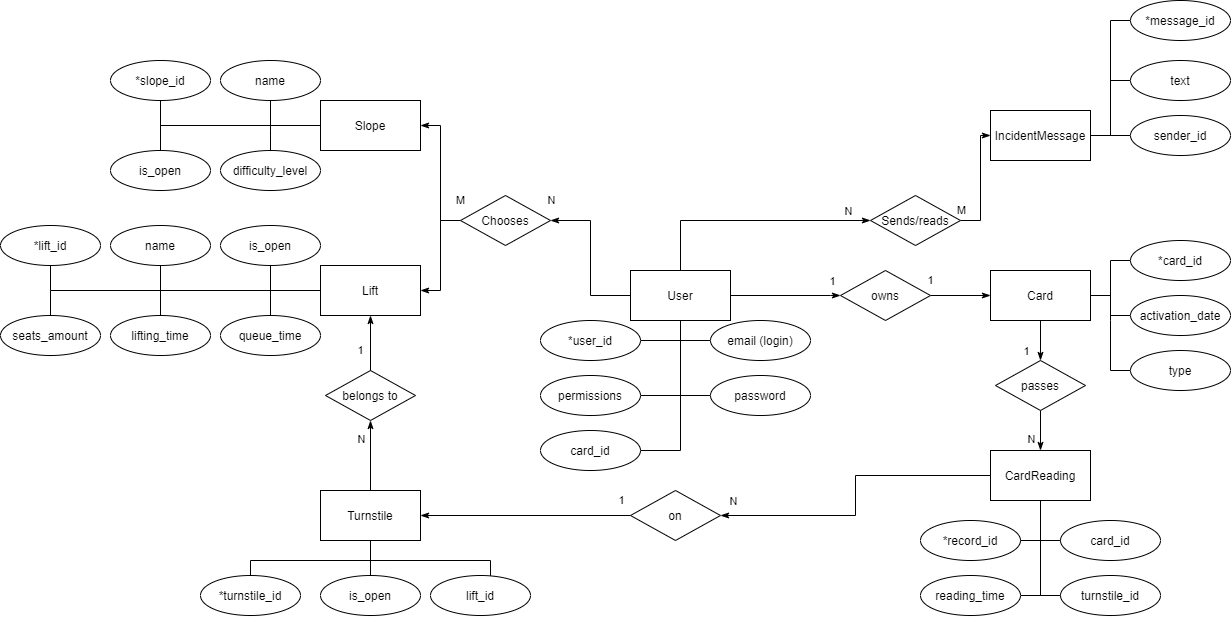
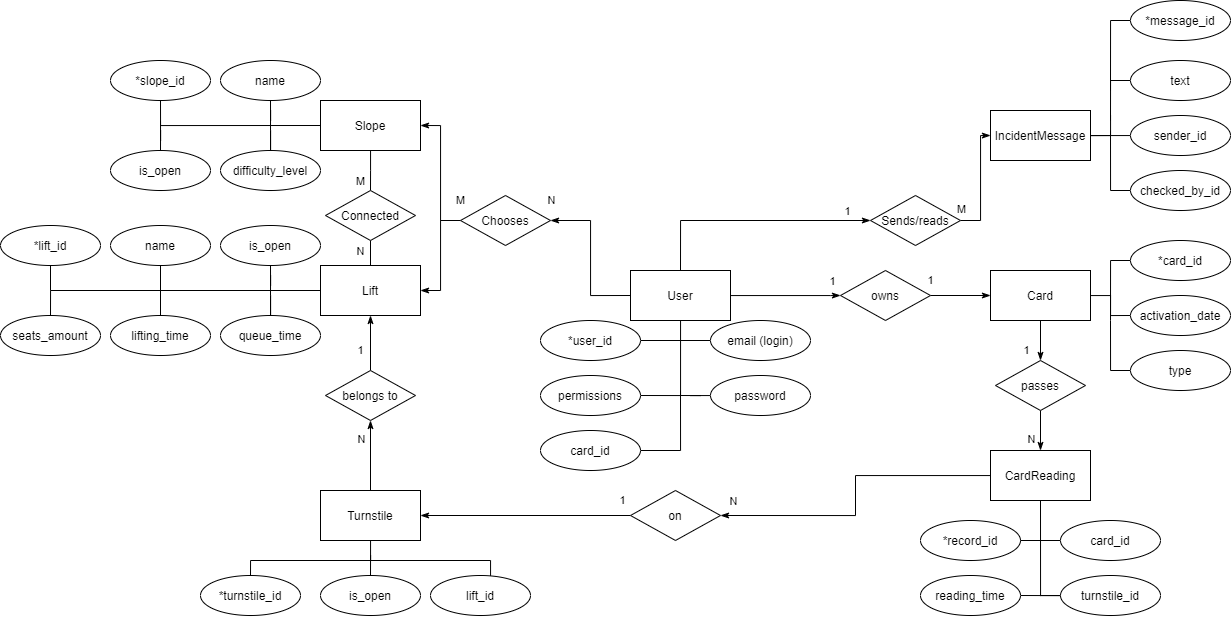
update readme1

diff --git a/readme1.md b/readme1.md
@@ -1,4 +1,5 @@
 # Онлайн-мониторинг состояния объектов горнолыжного курорта
+
 # Лабораторная работа 1
 
 ## Идея проекта
@@ -7,7 +8,7 @@
 
 - открытость/закрытость трасс и подъемников;
 - загруженность подъемников (время в очереди);
-- до каких трасс можно добраться на определенном подъемнике/ на каких подъемниках можно добраться до определенной трассы;
+- до каких трасс можно добраться на определенном подъемнике / на каких подъемниках можно добраться до определенной трассы (в дальнейшем для краткости эта информация будет обозначаться как "связь трасс и подъемников";
 - сообщения о неполадках на трассах/подъемниках/турникетах подъемников.
 
 
@@ -23,7 +24,7 @@
 Проведем анализ аналогичных решеий по следующим критериям:
 
 - наличие информации об открытости/закрытости трасс и подъемников;
-- наличие информации об очередях на подъемниках (очереди;
+- наличие информации об очередях на подъемниках (очереди);
 - наличие сводной информации о связях трасс и подъемников;
 - возможность получить информацию о том, до каких трасс можно добраться на определенном подъемнике/на каких подъемниках можно добраться до определенной трассы.
 
@@ -110,10 +111,20 @@
 
 ![](docs/imgs/er/er.png)
 
-er-диаграмма БД
+Схема БД
 
 ![](docs/imgs/db/db.png)
 
 ## Архитектурные характеристики, важные для проекта.
 
-Интерфейс приложения реаизуется в виде telegram-бота. Приложение должно выдерживать высокую нагрузку и обеспечивать быстрый отклик. Все данные хранятся в in-memory базе данных (tarantool)
+Интерфейс представляет собой telegram-бота (https://github.com/MrRoundRobin/telegram.bot).
+
+Приложение должно выдерживать высокую нагрузку и обеспечивать быстрый отклик. 
+
+Все данные хранятся в in-memory базе данных (tarantool)
+
+Язык - C#. 
+
+Среда разработки - VisualStudio.
+
+
